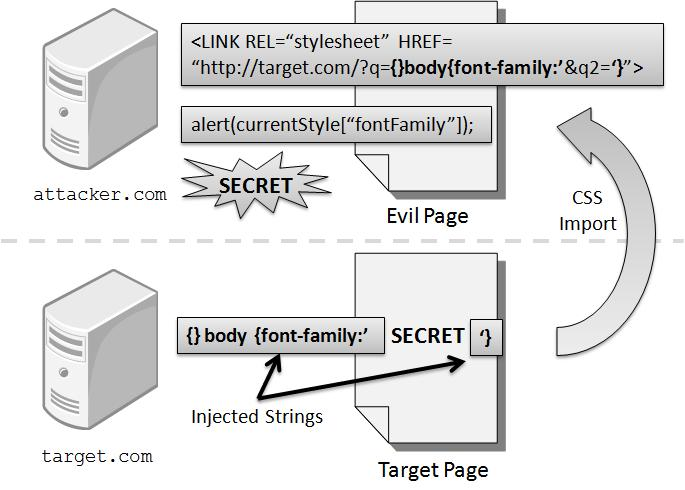
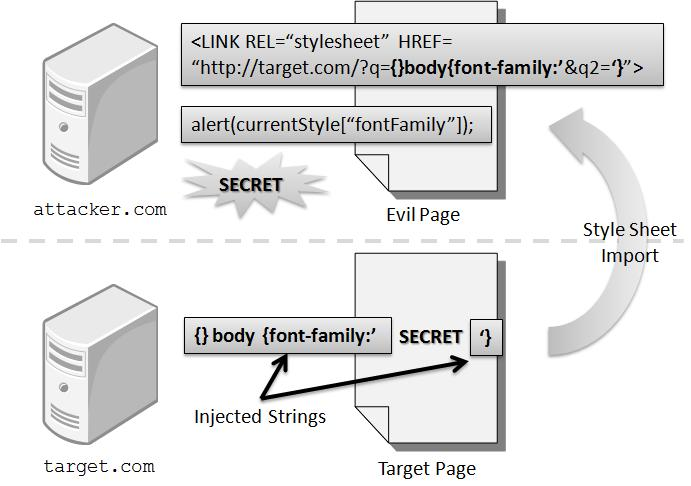
Update figures and few typo

diff --git a/css.tex b/css.tex
@@ -25,7 +25,7 @@ Collin Jackson\\
 \maketitle
 \begin{abstract}
 Cross-origin CSS attacks allow an attacker's web site to steal confidential information from another site, hijacking a user's existing authenticated session. The attack leverages an exception in the browser's security policy,
-using stylesheet import to read HTML content. We show how to conduct the attack in all browsers, even if JavaScript is disabled, and propose client-side defenses that still allow the vast majority of web sites to function normally. We detail other client-side and server-side mitigation proposals and find shortcomings with each technique. Our defense proposals have been adopted in Firefox, Google Chrome, Safari, and Opera.
+using style sheet import to read HTML content. We show how to conduct the attack in all browsers, even if JavaScript is disabled, and propose client-side defenses that still allow the vast majority of web sites to function normally. We detail other client-side and server-side mitigation proposals and find shortcomings with each technique. Our defense proposals have been adopted in Firefox, Google Chrome, Safari, and Opera.
 \end{abstract}
 
 \category{K.6.5}{Management of Computing and Information Systems}{Security and Protection}
@@ -163,14 +163,14 @@ Content-Type: text/html; charset=utf-8
 Browsers use MIME types to determine how to handle the contents of HTTP responses. However, many misconfigured web servers fail to provide the correct MIME type of their resources. Due to web site compatibility concerns, modern browsers use content-sniffing algorithms~\cite{securecontentsniffing} to guess the correct MIME type by inspecting the contents of HTTP responses.  Content-sniffing algorithms can override the provided MIME type and file extension of the document. Unfortunately, this quirk introduces chameleon documents, in which a document conforms to a benign file format (such as PDF) and contains malicious HTML.
 
 \subsection{Cross-Origin CSS Attack}
-In a cross-origin CSS attack, the attacker's main objective is to steal the victim's secret content on an honest web site from a different domain. The attacker is most likely interested in stealing any sensitive information in a cookie-authenticated web page, or preferably a secret CSRF token~\cite{csrf} hidden in the document that may allow the attacker to hijack the user's session. In order to steal content from a different domain, the attacker leverages the fact that the browser's security policy allows external style sheets to be imported from cross-origin. The target document on an honest web site is injected such that portions of the document conform to CSS rules. As soon as the victim visits the attacker's evil page, the cross-origin data is imported as style sheets and stolen. The steps of the cross-origin CSS attack is shown in Figure~\ref{figure:scenario}. To describe the cross-origin CSS attack in detail, we decompose the attack into three main steps: CSS string injection, cross-origin CSS import, and confidential data extraction.
+In a cross-origin CSS attack, the attacker's main objective is to steal the victim's secret content on an honest web site from a different domain. The attacker is most likely interested in stealing any sensitive information in a cookie-authenticated web page, or preferably a secret CSRF token~\cite{csrf} hidden in the document that may allow the attacker to hijack the user's session. In order to steal content from a different domain, the attacker leverages the fact that the browser's security policy allows external style sheets to be imported from cross-origin. The target document on an honest web site is injected such that portions of the document conform to CSS rules. As soon as the victim visits the attacker's evil page, the cross-origin data is imported as style sheets and stolen. The steps of the cross-origin CSS attack is shown in Figure~\ref{figure:steps}. To describe the cross-origin CSS attack in detail, we decompose the attack into three main steps: CSS string injection, cross-origin CSS import, and confidential data extraction.
 
-\begin{figure}
+\begin{figure*}
 \centering
-\includegraphics[width=\linewidth]{scenario.jpg}
+\includegraphics[width=\linewidth]{steps.jpg}
 \caption{Steps of the Cross-Origin CSS Attack}
-\label{figure:scenario}
-\end{figure}
+\label{figure:steps}
+\end{figure*}
 
 \subsubsection{CSS String Injection}
 Due to lenient MIME type requirement of CSS parsers, the attacker may fool the victim's browser into loading a carefully crafted non-CSS (e.g. HTML or XML) document as a valid style sheet resource. In practice, there are several methods that may allow a web attacker to inject strings into the target domain, e.g. reflection of user-controlled strings or via URL parameters. Normally, random text in a non-CSS document contains syntax errors to the CSS parser and would break the parsing. However, due to the overly lax CSS parsers in modern browsers, portions of a non-CSS document with valid CSS syntax can still be successfully parsed and recognized as style sheet rules.
@@ -205,7 +205,7 @@ The final step for the attacker is to extract the confidential data from the cro
 can extract the stolen data even with JavaScript disabled.
 
 \paragraph{With JavaScript}
-One method of data extraction is to access the computed styles or CSS text in DOM using JavaScript. All major browsers support using JavaScript to read computed styles, even loaded from cross-origin, by calling the \texttt{window.getComputedStyle} method or retrieving the \texttt{currentStyle} object. The cross-origin CSS vulnerabilities of DOM access on major browsers are shown in Table~\ref{table:DOM}. Given that the style name and property name is known, the attacker can extract the confidential data from the injected style property. WebKit-based browsers, i.e. Safari and Google Chrome, even surrendered the full CSS text of style sheets, including CSS rules loaded from cross-origin (without comments, thankfully). The attacker could read the raw text of cross-origin CSS via \texttt{document.styleSheets[].cssRules[].cssText} and also \texttt{window.getMatchedCSSRules().cssText}. This behavior violates the same-origin policy and can cause cross-origin data leak in pages with semi-valid CSS constructs. Other browsers only permit read access to the raw text of style sheets under restricted conditions. Internet Explorer allows access to cross-origin CSS raw text via \texttt{document.styleSheets[].cssText} only if the MIME type is correct. Firefox and Opera only allows access to CSS raw text for style sheets loaded from same-origin. Even if access to raw CSS text is blocked, the ability to read cross-origin loaded CSS styles is enough to construct serious attacks.
+One method of data extraction is to access the computed styles or CSS text in DOM using JavaScript. All major browsers support using JavaScript to read computed styles, even loaded from cross-origin, by calling the \texttt{window.getComputedStyle} method or retrieving the \texttt{currentStyle} object. The cross-origin CSS vulnerabilities of DOM access on major browsers are shown in Table~\ref{table:DOM}. Given that the style name and property name is known, the attacker can extract the confidential data from the injected style property. WebKit-based browsers, i.e. Safari and Google Chrome, even surrendered the full CSS text of style sheets, including CSS rules loaded from cross-origin (without comments, thankfully). The attacker could read the raw text of cross-origin CSS via \texttt{document.styleSheets[].cssRules[].cssText} and also \texttt{window.getMatchedCSSRules().cssText}. This behavior violates the same-origin policy and can cause cross-origin data leak in pages with semi-valid CSS constructs. Other browsers only permit read access to the raw text of style sheets under restricted conditions. Internet Explorer allows access to cross-origin CSS raw text via \texttt{document.styleSheets[].rules[].style.cssText} only if the MIME type is correct. Firefox and Opera only allows access to CSS raw text for style sheets loaded from same-origin. Even if access to raw CSS text is blocked, the ability to read cross-origin loaded CSS styles is enough to construct serious attacks.
 
 After extracting the sensitive content hidden in the style properties, the attacker can send the secret data to his own evil servers or even mount CSRF attacks. There are various methods to export data to other origins, in this specific attack we are interested in approaches where no user involvement is required, e.g. using the \texttt{XMLHttpRequest} API.
 
@@ -213,10 +213,13 @@ After extracting the sensitive content hidden in the style properties, the attac
 \centering
 \begin{tabular}{|c|c|c|c|c|c|} \hline
 Methods&IE&FF&Opera&Safari&Chrome\\ \hline
-currentStyle&\checkmark&&\checkmark&&\\ \hline
-getComputedStyle&&\checkmark&\checkmark&\checkmark&\checkmark\\ \hline
-%rules[].style.cssText&\checkmark&&&\checkmark&\checkmark\\ \hline
-cssRules[].cssText&&&&\checkmark&\checkmark\\
+\texttt{currentStyle}&\checkmark&&\checkmark&&\\ \hline
+\texttt{getComputedStyle}&&\checkmark&\checkmark&\checkmark&\checkmark\\ \hline
+%\texttt{rules[].style.cssText}&\checkmark&&&\checkmark&\checkmark\\ \hline
+\texttt{styleSheets[]}&&&&\checkmark&\checkmark\\
+\texttt{.cssRules[].cssText}&&&&&\\ \hline
+\texttt{getMatchedCSSRules()}&&&&\checkmark&\checkmark\\
+\texttt{.cssText}&&&&&\\
 \hline\end{tabular}
 \caption{Cross-Origin CSS DOM Vulnerabilities}
 \label{table:DOM}
@@ -376,7 +379,7 @@ The interpretation of valid MIME types for cross-origin CSS on each browser slig
 \begin{table}
 \centering
 \begin{tabular}{|c|c|c|c|c|} \hline
-Content-Type&FF&OP&Safari&Chrome\\ \hline
+Content-Type&FF&Opera&Safari&Chrome\\ \hline
 %text/css&&&&\\ \hline
 \texttt{application/x-}&&C&&\\ 
 \texttt{unknown-content-type}&&&&\\ \hline
@@ -386,9 +389,10 @@ Bogus&&C&C&C \\ \hline
 \texttt{*/*}&&C&C&C \\ \hline
 \texttt{application/}&S&C&C&C\\ 
 \texttt{octet-stream}&&&&\\ \hline
-%\texttt{text/html}&S&C&C&C\\ \hline
 \texttt{text/plain}&S&C&C&C\\ \hline
-Known&S&C&C&C\\
+\texttt{text/html}&S&C&C&C\\ \hline
+Known MIME types&S&C&C&C\\
+excluding \texttt{text/css}&&&&\\
 \hline\end{tabular}
 \caption{Adoption of Proposal in Major Browsers. The `S' and `C' represent the strict approach and conservative approach, respectively.}
 \label{table:adoption}
